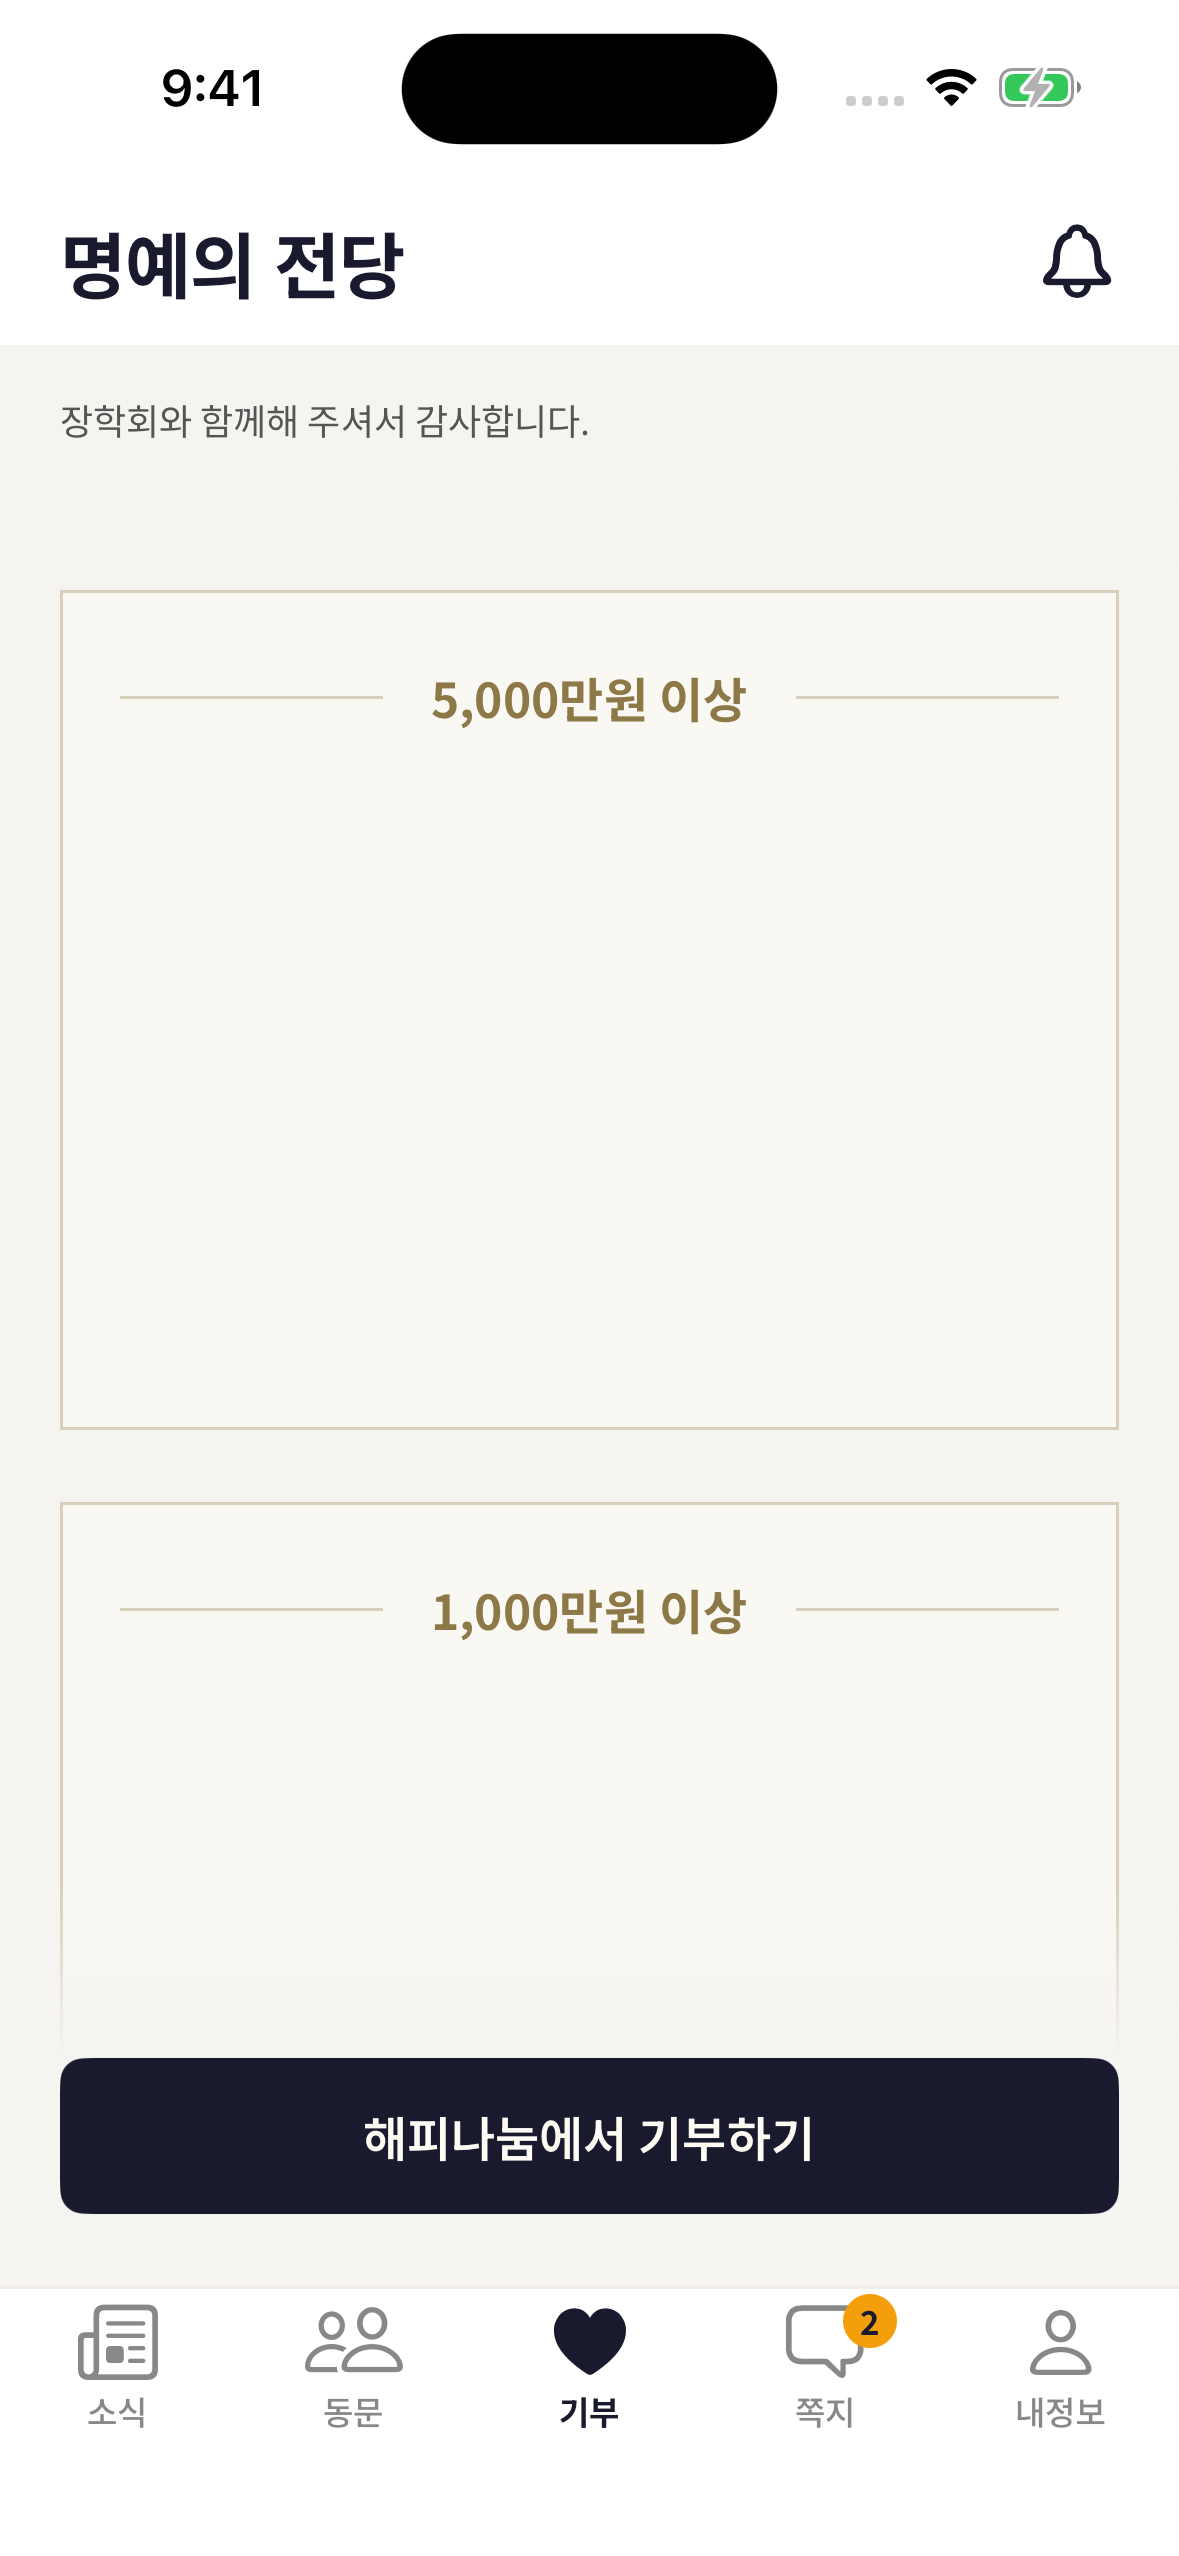
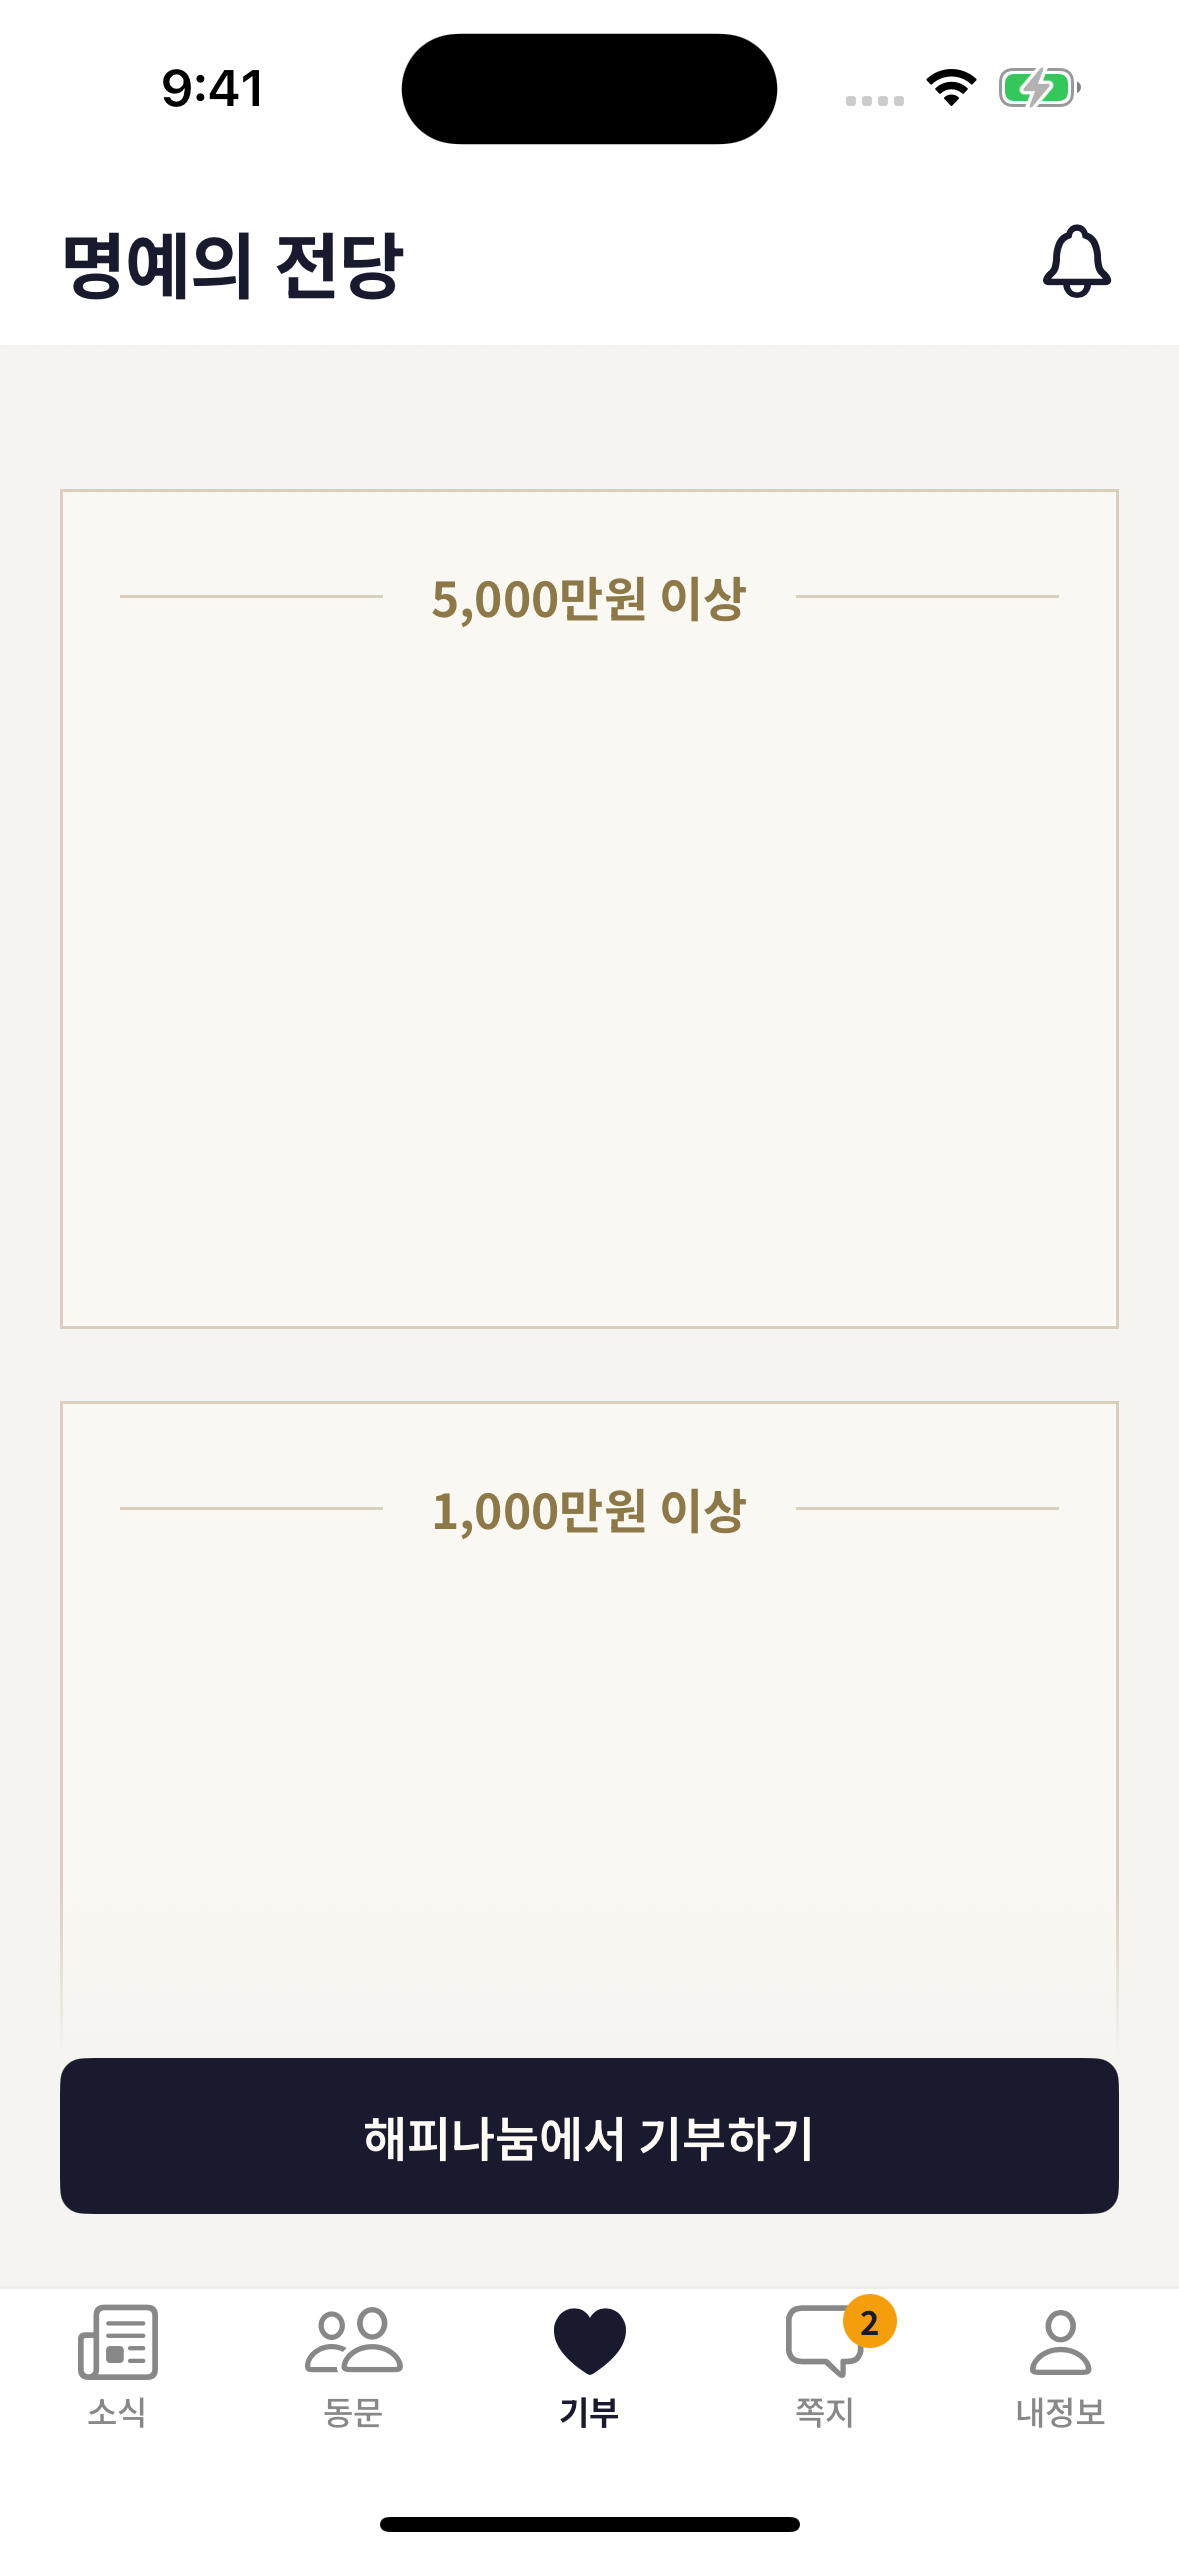
fix: remove donation gratitude contract and refresh verified screens

diff --git a/design-system/contracts/COMPONENT_CONTRACTS.md b/design-system/contracts/COMPONENT_CONTRACTS.md
@@ -1121,7 +1121,7 @@ Rules:
 - Mandatory: `true`
 - Platforms: `ios`, `android`
 - States: `unengraved`, `linkUnavailable`, `browserOpenError`
-- Required blocks: `header`, `gratitude`, `hallPlaqueWall`, `externalDonationCta`
+- Required blocks: `header`, `hallPlaqueWall`, `externalDonationCta`
 
 Required token families:
 
@@ -1132,7 +1132,7 @@ Required token families:
 
 Required token usage:
 
-- hallWall: `DonationHallOfFameView`, `DSColor.hallPlaqueSurface`, `DSColor.hallPlaqueBorder`, `DSColor.hallPlaqueHeading`, `DSSizing.hallPlaqueHeight`, `DSTextStyle.rememberCaptionLarge`
+- hallWall: `DonationHallOfFameView`, `DSColor.hallPlaqueSurface`, `DSColor.hallPlaqueBorder`, `DSColor.hallPlaqueHeading`, `DSSizing.hallPlaqueHeight`
 - layout: `DSLayout.screenPadMobile`, `DSSpace.xlarge`
 - cta: `DSPrimaryButton`
 
@@ -1144,7 +1144,7 @@ Implementation evidence:
 Rules:
 
 - `Keep the navigation tab label 기부 and use 명예의 전당 as the single screen header with its existing notification action.`
-- `Show 장학회와 함께해 주셔서 감사합니다. below the shared header. Replace the preparing heart and notice with the approved unengraved plaque wall.`
+- `Mount the unengraved plaque wall directly below the shared header. The gratitude line was removed at the user’s request.`
 - `Render one rectangular plaque for each approved tier, in descending order: 5,000만원 이상, 1,000만원 이상, 500만원 이상, 300만원 이상, 100만원 이상. Use the scheme-aware ivory/charcoal hallPlaqueSurface, thin hallPlaqueBorder, and muted gold hallPlaqueHeading flanked by fine rules. Keep names and affiliations completely blank; add no mock donor names, skeleton bars, counts or loading animation.`
 - `Use 280pt/dp blank plaques, 24pt/dp gaps and shared 20pt/dp horizontal insets. Only the wall scrolls manually; 48pt/dp top and 56pt/dp bottom fades blend into the shared background and must not intercept gestures or accessibility. Content padding keeps every tier readable at either end.`
 - `Keep shared app background, header, CTA and existing bottom navigation in light and dark appearance. No duplicate title or helper text below the CTA.`

diff --git a/docs/qa/hall-plaques-release-2026-10-12.md b/docs/qa/hall-plaques-release-2026-10-12.md
@@ -1,0 +1,20 @@
+# 명예의 전당 최종 심사 제출 · 2026-10-12
+
+양쪽 앱에 이름과 소속이 없는 5개 금액 구간 현판을 구현하고, 감사 문구를 삭제했다.
+
+| 플랫폼 | 버전 / 빌드 | 확인한 상태 |
+| --- | --- | --- |
+| Android | 1.3.5 / 1861012004 | alpha · IN_REVIEW |
+| iOS | 1.3.5 / 202610121616 | WAITING_FOR_REVIEW · 수동 출시 |
+
+두 플랫폼 모두 로컬 main의 검증된 소스를 Fastlane으로 빌드하고 업로드했다.
+이전 현판 빌드(Android 1861012003, iOS 202610121532)는 감사 문구가 포함되어 있어 최종 빌드로 대체했다.
+iOS 기부 스크린샷도 감사 문구 없는 실제 화면으로 갱신했으며 나머지 4개 스크린샷은 보존했다.
+
+- [현판 화면과 UI 검증](../../design-system/verification/hall-of-fame/README.md)
+- Android 소스: `dec17c50d39d6a09563092db1415ec069b1e5e94`
+- iOS 소스: `1323c8d6c8f9218992733ab40632acd72d1bcc8a`
+- iOS 심사 ID: `f2df9ef1-4feb-4341-9765-6cd7000f9625`
+- 로컬 증빙: `build/hall-no-gratitude-release-20261012/`의 배포 로그, API 응답, 스크린샷, 서명 검사 및 아티팩트 해시.
+
+공개 출시 완료를 의미하지 않는다. Android는 alpha 심사 중이며 iOS는 심사 대기 중이다.
